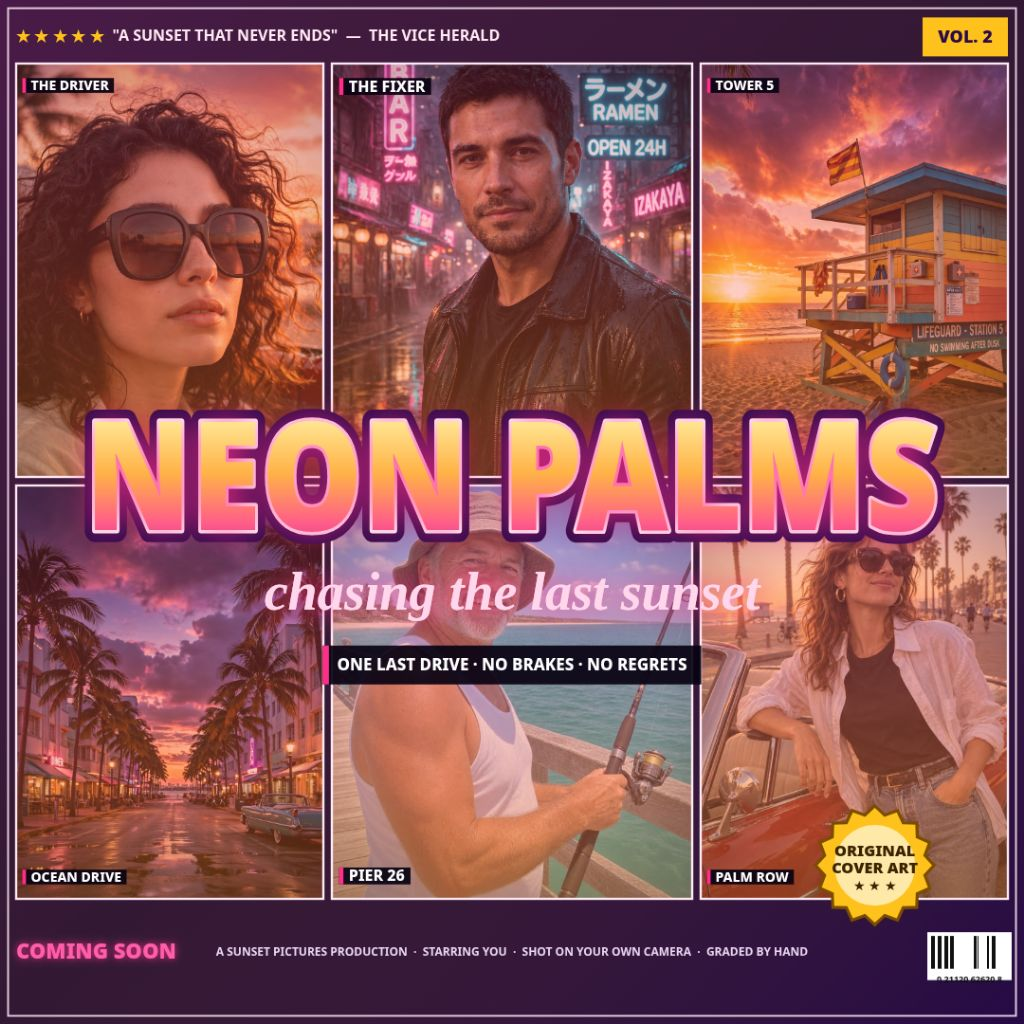
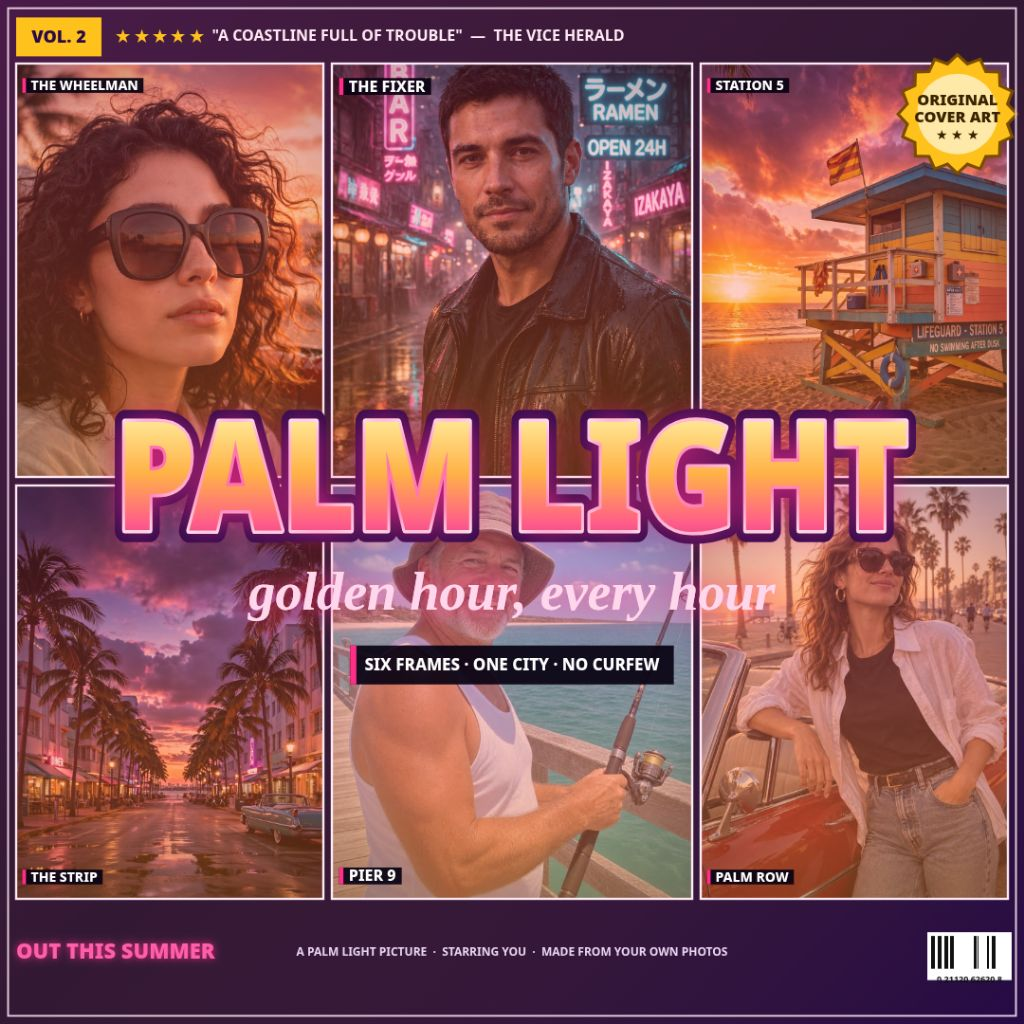
Palm Light: own words and layout — VOL top-left, seal top-right, new title/tagline/quote/labels, no top-3 copy

diff --git a/app/src/cover.js b/app/src/cover.js
@@ -1,4 +1,4 @@
-// Neon Palms — the cover renderer. Draws the whole multi-panel GTA-style poster
+// Palm Light — the cover renderer. Draws the whole multi-panel GTA-style poster
 // onto any 2D canvas: six photo panels with a sunset/neon grade, one giant
 // gradient title with a script subtitle, a star quote strip, a tagline pill,
 // a gold "ORIGINAL COVER ART" seal, a barcode and a footer. Every size is a
@@ -6,11 +6,11 @@
 // and 1080x1350. No Rockstar logo, artwork or font is used anywhere here.
 
 export const PANEL_LABELS = [
-  'THE DRIVER',
+  'THE WHEELMAN',
   'THE FIXER',
-  'TOWER 5',
-  'OCEAN DRIVE',
-  'PIER 26',
+  'STATION 5',
+  'THE STRIP',
+  'PIER 9',
   'PALM ROW',
 ];
 
@@ -123,7 +123,7 @@ export function drawPanelLabel(ctx, rect, text, atBottom) {
 
 /** The giant gradient title, fitted to the canvas width, slightly condensed. */
 export function drawGiantTitle(ctx, w, h, title) {
-  const words = title.trim().toUpperCase() || 'NEON PALMS';
+  const words = title.trim().toUpperCase() || 'PALM LIGHT';
   const cy = h * 0.475;
   let size = w * 0.148;
   ctx.save();
@@ -159,7 +159,7 @@ export function drawGiantTitle(ctx, w, h, title) {
 
 /** The pink script-style subtitle, overlapping the foot of the title. */
 export function drawScriptSubtitle(ctx, w, h, subtitle, titleSize) {
-  const text = subtitle.trim() || 'chasing the last sunset';
+  const text = subtitle.trim() || 'golden hour, every hour';
   const y = h * 0.475 + titleSize * 0.52 + h * 0.03;
   let size = w * 0.052;
   ctx.save();
@@ -259,26 +259,27 @@ export function drawCover(canvas, photos, crops, text, grade) {
   ctx.fillStyle = wash;
   ctx.fillRect(0, 0, w, h);
 
-  // Header: five stars + quote on the left, VOL badge on the right.
+  // Header: VOL badge on the left, then five stars + quote on the right.
   const hy = h * 0.036;
-  ctx.textBaseline = 'middle';
-  ctx.textAlign = 'left';
-  ctx.font = `800 ${Math.max(12, Math.round(w * 0.016))}px "Noto Sans", sans-serif`;
-  ctx.fillStyle = '#ffc21c';
-  ctx.fillText('★ ★ ★ ★ ★', m, hy);
-  const starsW = ctx.measureText('★ ★ ★ ★ ★  ').width;
-  ctx.fillStyle = '#ffe9f4';
-  ctx.font = `700 ${Math.max(11, Math.round(w * 0.0145))}px "Noto Sans", sans-serif`;
-  ctx.fillText(`"${(text.quote || '').toUpperCase()}"  —  THE VICE HERALD`, m + starsW, hy);
   const vol = 'VOL. 2';
   ctx.font = `900 ${Math.max(12, Math.round(w * 0.017))}px "Arial Black", "Noto Sans", sans-serif`;
   const vw = ctx.measureText(vol).width + w * 0.03;
   const vh = h * 0.038;
   ctx.fillStyle = '#ffc21c';
-  ctx.fillRect(w - m - vw, hy - vh / 2, vw, vh);
+  ctx.fillRect(m, hy - vh / 2, vw, vh);
   ctx.fillStyle = '#2a0a4a';
   ctx.textAlign = 'center';
-  ctx.fillText(vol, w - m - vw / 2, hy + 1);
+  ctx.textBaseline = 'middle';
+  ctx.fillText(vol, m + vw / 2, hy + 1);
+  const hx = m + vw + w * 0.014;
+  ctx.textAlign = 'left';
+  ctx.font = `800 ${Math.max(12, Math.round(w * 0.016))}px "Noto Sans", sans-serif`;
+  ctx.fillStyle = '#ffc21c';
+  ctx.fillText('★ ★ ★ ★ ★', hx, hy);
+  const starsW = ctx.measureText('★ ★ ★ ★ ★  ').width;
+  ctx.fillStyle = '#ffe9f4';
+  ctx.font = `700 ${Math.max(11, Math.round(w * 0.0145))}px "Noto Sans", sans-serif`;
+  ctx.fillText(`"${(text.quote || '').toUpperCase()}"  —  THE VICE HERALD`, hx + starsW, hy);
 
   // Six photo panels with the grade and their label chips.
   const rects = panelRects(w, h);
@@ -314,7 +315,7 @@ export function drawCover(canvas, photos, crops, text, grade) {
     ctx.restore();
   }
 
-  // Footer: COMING SOON, production line, barcode, gold seal.
+  // Footer: OUT THIS SUMMER, production line, barcode; the seal is top-right.
   const fy = h * 0.93;
   ctx.save();
   ctx.textAlign = 'left';
@@ -323,17 +324,21 @@ export function drawCover(canvas, photos, crops, text, grade) {
   ctx.fillStyle = '#ff5ea8';
   ctx.shadowColor = 'rgba(255, 46, 136, 0.9)';
   ctx.shadowBlur = Math.max(4, w * 0.008);
-  ctx.fillText('COMING SOON', m, fy);
+  ctx.fillText('OUT THIS SUMMER', m, fy);
   ctx.shadowBlur = 0;
   ctx.textAlign = 'center';
   ctx.font = `700 ${Math.max(10, Math.round(w * 0.0115))}px "Noto Sans", sans-serif`;
   ctx.fillStyle = '#e8d5f2';
-  ctx.fillText('A SUNSET PICTURES PRODUCTION  ·  STARRING YOU  ·  SHOT ON YOUR OWN CAMERA  ·  GRADED BY HAND', w / 2, fy);
+  ctx.fillText('A PALM LIGHT PICTURE  ·  STARRING YOU  ·  MADE FROM YOUR OWN PHOTOS', w / 2, fy);
   ctx.restore();
   const bw = w * 0.075;
   const bh = h * 0.032;
   drawBarcode(ctx, w - m - bw, fy - bh / 2, bw, bh);
-  drawSeal(ctx, w - m - bw - w * 0.055, h * 0.845, Math.min(w, h) * 0.058);
+  // The gold seal sits top-right, overlapping the corner of the last panel —
+  // the other covers put theirs at the bottom or the middle, so this one
+  // reads as its own poster at a glance.
+  const sealR = Math.min(w, h) * 0.058;
+  drawSeal(ctx, w - m - sealR * 0.85, Math.round(h * 0.062) + sealR * 0.85, sealR);
 
   // Thin inner frame, the poster's finishing edge.
   ctx.save();

diff --git a/app/index.html b/app/index.html
@@ -3,13 +3,13 @@
 <head>
 <meta charset="utf-8">
 <meta name="viewport" content="width=device-width, initial-scale=1">
-<title>Neon Palms — GTA 6 Cover Art Maker</title>
+<title>Palm Light — GTA 6 Cover Art Maker</title>
 <link rel="stylesheet" href="./style.css">
 </head>
 <body>
 <main class="app">
   <section class="controls" aria-label="Cover editor">
-    <h1>Neon Palms</h1>
+    <h1>Palm Light</h1>
     <p class="tag">Cover art dulu. Six panels, one giant title, a sunset grade — your photos, exported as a PNG to post.</p>
 
     <fieldset>
@@ -26,7 +26,7 @@
       <label>Photo for the selected panel
         <input id="photoOne" type="file" accept="image/*">
       </label>
-      <label>Panel label <input id="panelLabel" type="text" maxlength="24" value="THE DRIVER"></label>
+      <label>Panel label <input id="panelLabel" type="text" maxlength="24" value="THE WHEELMAN"></label>
       <label>Zoom <input id="zoom" type="range" min="1" max="3" step="0.05" value="1"></label>
       <label>Move left / right <input id="offx" type="range" min="-1" max="1" step="0.05" value="0"></label>
       <label>Move up / down <input id="offy" type="range" min="-1" max="1" step="0.05" value="0"></label>
@@ -34,10 +34,10 @@
 
     <fieldset>
       <legend>2 · Words</legend>
-      <label>Giant title <input id="title" type="text" maxlength="24" value="NEON PALMS"></label>
-      <label>Script subtitle <input id="subtitle" type="text" maxlength="48" value="chasing the last sunset"></label>
-      <label>Tagline <input id="tagline" type="text" maxlength="64" value="ONE LAST DRIVE · NO BRAKES · NO REGRETS"></label>
-      <label>Star quote <input id="quote" type="text" maxlength="64" value="A SUNSET THAT NEVER ENDS"></label>
+      <label>Giant title <input id="title" type="text" maxlength="24" value="PALM LIGHT"></label>
+      <label>Script subtitle <input id="subtitle" type="text" maxlength="48" value="golden hour, every hour"></label>
+      <label>Tagline <input id="tagline" type="text" maxlength="64" value="SIX FRAMES · ONE CITY · NO CURFEW"></label>
+      <label>Star quote <input id="quote" type="text" maxlength="64" value="A COASTLINE FULL OF TROUBLE"></label>
     </fieldset>
 
     <fieldset>

diff --git a/app/src/main.js b/app/src/main.js
@@ -1,4 +1,4 @@
-// Neon Palms — wires the editor: six photo panels with per-panel crop, editable
+// Palm Light — wires the editor: six photo panels with per-panel crop, editable
 // words, three sunset/neon grades and three export sizes, with a live preview.
 // Photos stay on the user's own machine: picked files are read locally and
 // never uploaded. A `?shot=` query sets up a fixed scene for a screenshot.
@@ -26,10 +26,10 @@ const state = {
   photos: [null, null, null, null, null, null],
   crops: Array.from({ length: 6 }, () => ({ zoom: 1, ox: 0, oy: 0 })),
   labels: [...PANEL_LABELS],
-  title: 'NEON PALMS',
-  subtitle: 'chasing the last sunset',
-  tagline: 'ONE LAST DRIVE · NO BRAKES · NO REGRETS',
-  quote: 'A SUNSET THAT NEVER ENDS',
+  title: 'PALM LIGHT',
+  subtitle: 'golden hour, every hour',
+  tagline: 'SIX FRAMES · ONE CITY · NO CURFEW',
+  quote: 'A COASTLINE FULL OF TROUBLE',
   grade: 'sunset',
   size: '1920x1080',
   selected: 0,
@@ -197,9 +197,9 @@ export function exportPng() {
     if (!blob) return;
     const a = document.createElement('a');
     a.href = URL.createObjectURL(blob);
-    a.download = `neon-palms-${w}x${h}.png`;
+    a.download = `palm-light-${w}x${h}.png`;
     a.click();
-    status.textContent = `Saved neon-palms-${w}x${h}.png — post it.`;
+    status.textContent = `Saved palm-light-${w}x${h}.png — post it.`;
   }, 'image/png');
 }
 

diff --git a/main.ts b/main.ts
@@ -1,4 +1,4 @@
-// Neon Palms — a gta6-cover-art-01 entry (Node 22, standard library only).
+// Palm Light — a gta6-cover-art-01 entry (Node 22, standard library only).
 // The app is plain static files under app/: index.html plus its own ES modules
 // and sample photos, no network request, no build step. This program hands the
 // entry in: it copies app/ and screenshots/ from beside this file into the

diff --git a/README.md b/README.md
@@ -1,4 +1,4 @@
-# Neon Palms — Make GTA 6 Cover Art
+# Palm Light — Make GTA 6 Cover Art
 
 [![gta6-cover-art-01](https://make.fun/badge/gta6-cover-art-01.svg)](https://make.fun/c/gta6-cover-art-01)
 [![rank](https://make.fun/badge/gta6-cover-art-01/astiip/gta6-cover-art-01-bot/rank.svg)](https://make.fun/c/gta6-cover-art-01)
@@ -28,12 +28,14 @@ step. Photos are read on your own machine and never uploaded. Serve it with
 
 ## The cover
 
-Original design, original title **NEON PALMS** with the subtitle
-*chasing the last sunset* and the tagline
-"ONE LAST DRIVE · NO BRAKES · NO REGRETS". No Rockstar logo, artwork or
+Original design, original title **PALM LIGHT** with the subtitle
+*golden hour, every hour* and the tagline
+"SIX FRAMES · ONE CITY · NO CURFEW". No Rockstar logo, artwork or
 font is used anywhere. The title lettering is a system heavy sans drawn on
 canvas with a sunset gradient; the subtitle is a system italic serif with a
-neon-pink glow.
+neon-pink glow. The layout is its own: a uniform six-panel grid, the VOL
+badge top-left, the gold seal top-right, and the footer line
+"A PALM LIGHT PICTURE · STARRING YOU · MADE FROM YOUR OWN PHOTOS".
 
 ## Sample photos
 
